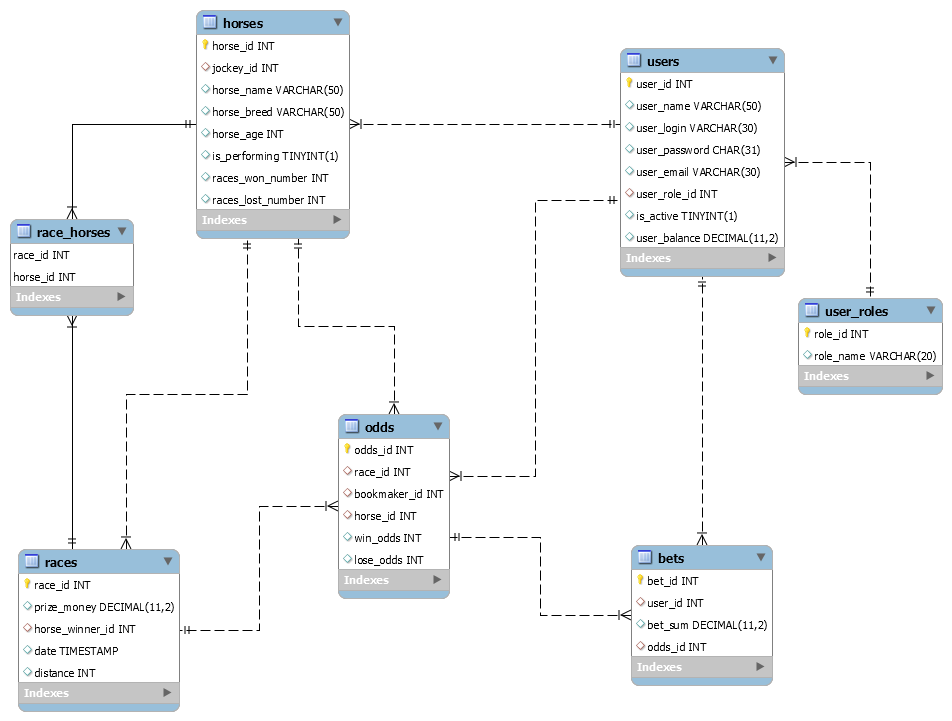
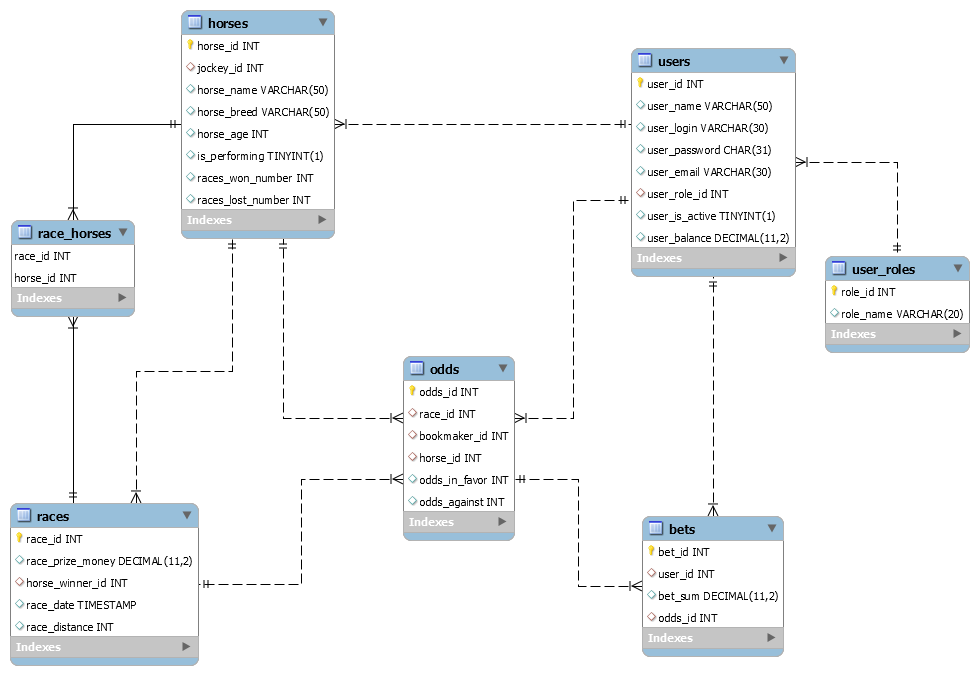
Rename race fields in database

diff --git a/src/main/java/buyanova/repository/ColumnLabel.java b/src/main/java/buyanova/repository/ColumnLabel.java
@@ -4,15 +4,20 @@ public enum ColumnLabel {
 
     USER_ID("user_id"), USER_NAME("user_name"), USER_LOGIN("user_login"),
     USER_PASSWORD("user_password"), USER_EMAIL("user_email"), USER_ROLE_ID("user_role_id"),
-    IS_ACTIVE("is_active"), USER_BALANCE("user_balance"),
+    USER_IS_ACTIVE("user_is_active"), USER_BALANCE("user_balance"),
 
     HORSE_ID("horse_id"), JOCKEY_ID("jockey_id"), HORSE_NAME("horse_name"),
     HORSE_BREED("horse_breed"), HORSE_AGE("horse_age"), IS_PERFORMING("is_performing"),
     RACES_WON_NUMBER("races_won_number"), RACES_LOST_NUMBER("races_lost_number"),
 
-    BET_ID("bet_id"), BET_SUM("bet_sum"), ODDS_ID("odds_id"),
+    BET_ID("bet_id"), BET_SUM("bet_sum"),
 
-    RACE_ID("race_id");
+    ODDS_ID("odds_id"), BOOKMAKER_ID("bookmaker_id"), ODDS_IN_FAVOR("odds_in_favor"),
+    ODDS_AGAINST("odds_against"),
+
+    RACE_ID("race_id"), RACE_PRIZE_MONEY("race_prize_money"), RACE_DISTANCE("race_distance"),
+    RACE_DATE("race_date"), HORSE_WINNER_ID("horse_winner_id");
+
     private String value;
 
     ColumnLabel(String value) {

diff --git a/src/main/java/buyanova/pool/ConnectionPool.java b/src/main/java/buyanova/pool/ConnectionPool.java
@@ -57,6 +57,12 @@ public enum ConnectionPool {
     /** Database driver name*/
     private String driver;
 
+
+    ConnectionPool(){
+        availableConnections = new LinkedBlockingQueue<>(POOL_SIZE);
+        usedConnections = new ArrayDeque<>();
+    }
+
     /**
      * Initializes pool with database connections.
      * <p>
@@ -68,8 +74,6 @@ public enum ConnectionPool {
      * */
     public void init() throws ConnectionPoolException {
         if (!isInitialized.get()) {
-            availableConnections = new LinkedBlockingQueue<>(POOL_SIZE);
-            usedConnections = new ArrayDeque<>();
             try {
                 loadDatabaseProperties();
                 Class.forName(driver);

diff --git a/src/main/java/buyanova/repository/user/implementation/SqlUserRepository.java b/src/main/java/buyanova/repository/user/implementation/SqlUserRepository.java
@@ -113,7 +113,7 @@ public enum SqlUserRepository implements UserRepository {
         user.setPassword(resultSet.getString(ColumnLabel.USER_PASSWORD.getValue()));
         user.setEmail(resultSet.getString(ColumnLabel.USER_EMAIL.getValue()));
         user.setUserRole(UserRole.getById(resultSet.getInt(ColumnLabel.USER_ROLE_ID.getValue())));
-        user.setActive(resultSet.getBoolean(ColumnLabel.IS_ACTIVE.getValue()));
+        user.setActive(resultSet.getBoolean(ColumnLabel.USER_IS_ACTIVE.getValue()));
         user.setBalance(resultSet.getBigDecimal(ColumnLabel.USER_BALANCE.getValue()));
         return user;
     }

diff --git a/src/main/java/buyanova/specification/sql/implementation/user/FindUserByLoginAndPassword.java b/src/main/java/buyanova/specification/sql/implementation/user/FindUserByLoginAndPassword.java
@@ -12,7 +12,7 @@ public class FindUserByLoginAndPassword implements SqlSpecification {
     private String password;
 
     private static final String SQL_QUERY = "SELECT user_id, user_name, user_login, user_password, " +
-            "user_email, user_role_id, is_active, user_balance FROM users WHERE user_login = ? and user_password = ?;";
+            "user_email, user_role_id, user_is_active, user_balance FROM users WHERE user_login = ? and user_password = ?;";
 
     public FindUserByLoginAndPassword(String login, String password) {
         this.login = login;

diff --git a/src/main/java/buyanova/specification/sql/implementation/user/FindUsersWhoseBetsWonInRace.java b/src/main/java/buyanova/specification/sql/implementation/user/FindUsersWhoseBetsWonInRace.java
@@ -18,7 +18,7 @@ public class FindUsersWhoseBetsWonInRace implements SqlSpecification {
                     "    user_password,\n" +
                     "    user_email,\n" +
                     "    user_role_id,\n" +
-                    "    is_active,\n" +
+                    "    user_is_active,\n" +
                     "    user_balance\n" +
                     "FROM\n" +
                     "    users\n" +

diff --git a/src/main/java/buyanova/entity/User.java b/src/main/java/buyanova/entity/User.java
@@ -5,7 +5,7 @@ import java.math.BigDecimal;
 import java.util.Objects;
 
 /**
- * Nothing much but a mere website user.
+ * Any mere mortal scrolling down the website.
  *
  * @author Natalie
  * */
